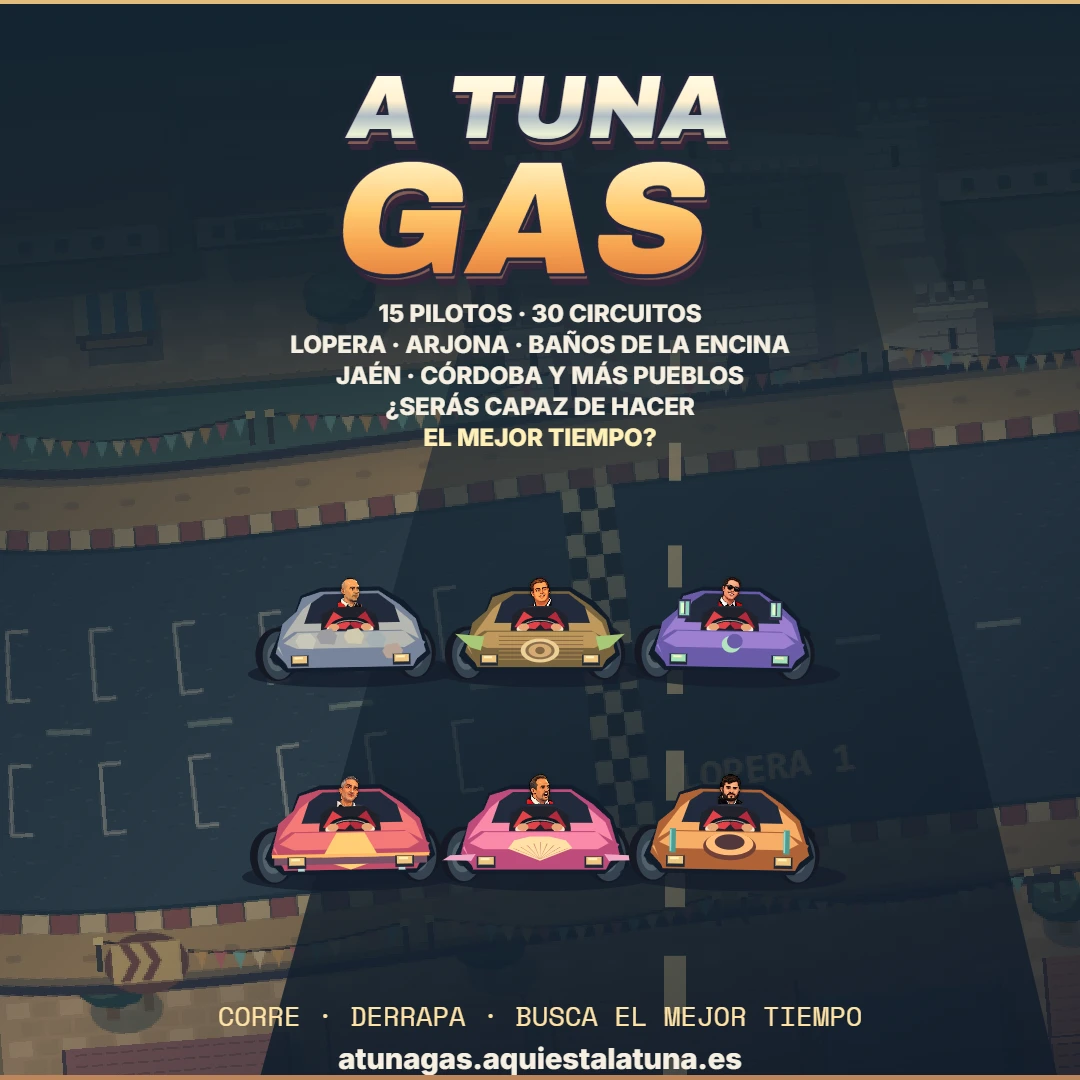
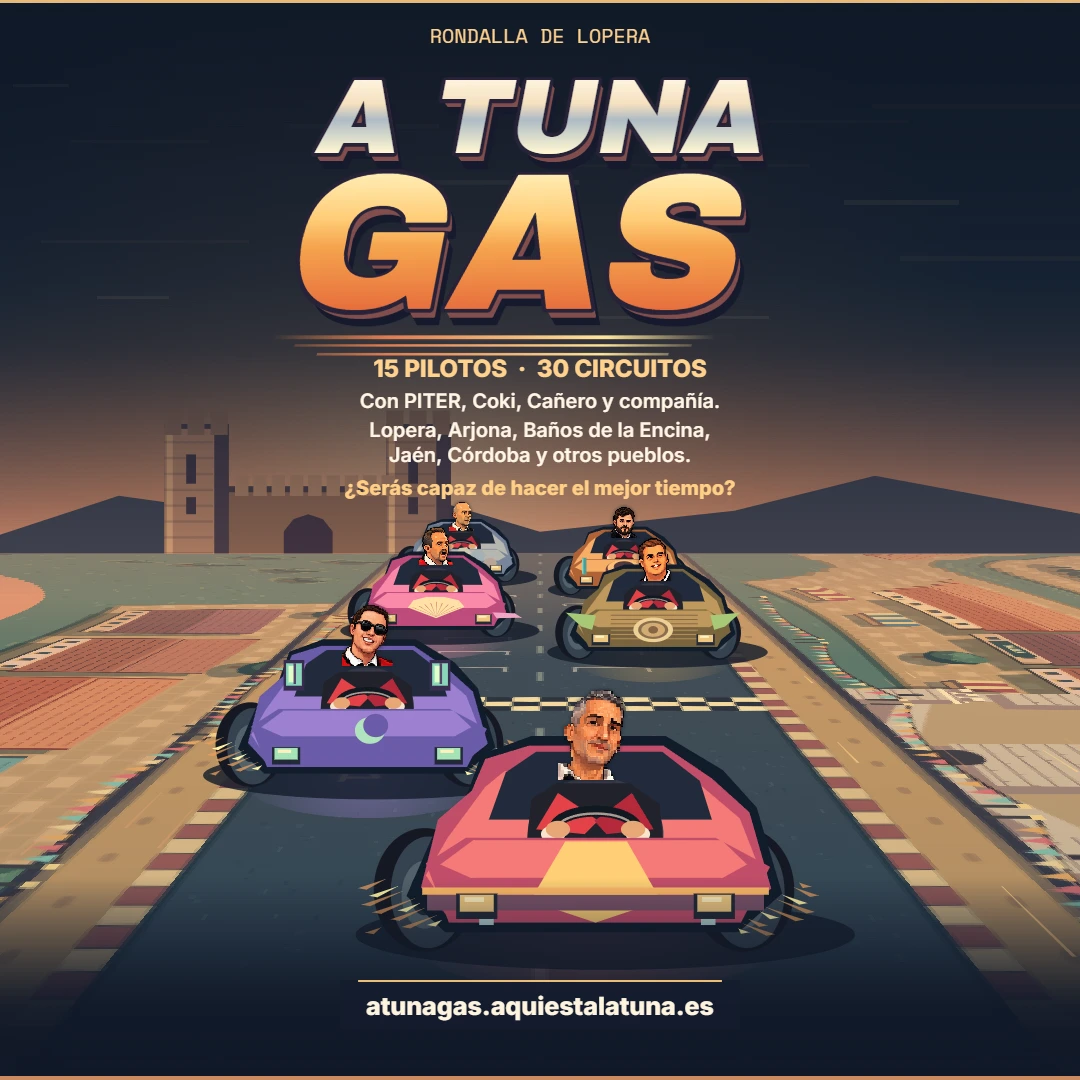
Rediseñar la carátula promocional de A Tuna Gas

diff --git a/promocion/editable/portada.js b/promocion/editable/portada.js
@@ -1,57 +1,279 @@
 (() => {
-  const game=globalThis.ATunaGas, canvas=document.getElementById('poster'), ctx=canvas.getContext('2d');
-  const {rect,poly,ellipse}=game.drawing;
-  const layouts={
-    horizontal:{size:[1200,630], title:[246,91,.78], copy:[287,259,18,23]},
-    cuadrada:{size:[1080,1080], title:[540,108,1.08], copy:[540,322,24,31]},
-    vertical:{size:[1080,1920], title:[540,206,1.28], copy:[540,442,27,36]}
+  const game = globalThis.ATunaGas;
+  const canvas = document.getElementById('poster');
+  const ctx = canvas.getContext('2d');
+  const {ellipse, poly, rect} = game.drawing;
+  const layouts = {
+    horizontal: {
+      size: [1200, 630], title: [254, 163, 1.03], eyebrow: 76,
+      copy: [254, 365, 17, 26], url: [254, 553, 20],
+      view: {center: 820, horizon: 213, rise: 329, width: 3.25, car: 1.02}
+    },
+    cuadrada: {
+      size: [1080, 1080], title: [540, 135, 1.26], eyebrow: 43,
+      copy: [540, 377, 20, 26], url: [540, 1015, 25],
+      view: {center: 540, horizon: 429, rise: 503, width: 4.3, car: 1.22}
+    },
+    vertical: {
+      size: [1080, 1920], title: [540, 252, 1.67], eyebrow: 126,
+      copy: [540, 580, 27, 36], url: [540, 1781, 32],
+      view: {center: 540, horizon: 715, rise: 948, width: 4.43, car: 1.40}
+    }
   };
-  const format=new URLSearchParams(location.search).get('formato')||'horizontal';
-  const layout=layouts[format]||layouts.horizontal;
-  [canvas.width,canvas.height]=layout.size;
-  const w=canvas.width,h=canvas.height,track=game.tracks[0];
-  const racers=[['guitarra','adoquin'],['canero','olivo'],['coki','farol'],['guitarra-gafas','cohete'],['pena','peineta'],['andres','perol']]
-    .map(([character,vehicle])=>({character:game.characters.find(item=>item.id===character),vehicle:game.vehicles.find(item=>item.id===vehicle)}));
-  function scene(){
-    rect(ctx,'#182530',0,0,w,h);
-    ctx.save();ctx.translate(w*.68,h*.58);ctx.rotate(-.08);
-    const zoom=format==='horizontal'?1.52:format==='vertical'?2.18:1.92;
-    ctx.scale(zoom,zoom);ctx.translate(-1118,-1250);ctx.imageSmoothingEnabled=false;
-    ctx.drawImage(game.art.scenery(track),0,0,track.width,track.height);ctx.restore();
-    const road=ctx.createLinearGradient(0,h*.18,0,h);road.addColorStop(0,'#22313c88');road.addColorStop(.5,'#172633aa');road.addColorStop(1,'#101b29ee');
-    poly(ctx,[[w*.47,h*.16],[w*.78,h*.16],[w*.98,h],[w*.24,h]],road);
-    for(let i=0;i<9;i++)rect(ctx,'#f1d494b0',w*.625-(8+i*2)/2,h*(.22+i*.095),8+i*2,30+i*4);
-    const dusk=ctx.createLinearGradient(0,0,w,h);dusk.addColorStop(0,'#152430e8');dusk.addColorStop(.5,'#15243066');dusk.addColorStop(1,'#121d2bd9');rect(ctx,dusk,0,0,w,h);
-    const shade=format==='horizontal'?ctx.createLinearGradient(0,0,w*.58,0):ctx.createLinearGradient(0,0,0,h*.44);shade.addColorStop(0,'#132430');shade.addColorStop(.58,'#172530d9');shade.addColorStop(1,'#18293700');rect(ctx,shade,0,0,w,h);
+  const format = new URLSearchParams(location.search).get('formato') || 'horizontal';
+  const layout = layouts[format] || layouts.horizontal;
+  [canvas.width, canvas.height] = layout.size;
+  const w = canvas.width;
+  const h = canvas.height;
+  const view = layout.view;
+  const track = game.tracks[0];
+  const racers = [
+    ['guitarra', 'adoquin', -480, 63],
+    ['andres', 'perol', -400, -62],
+    ['pena', 'peineta', -207, 61],
+    ['canero', 'olivo', -134, -60],
+    ['coki', 'farol', 109, 59],
+    ['guitarra-gafas', 'cohete', 248, -13]
+  ].map(([pilot, car, distance, lane]) => ({
+    character: game.characters.find(item => item.id === pilot),
+    vehicle: game.vehicles.find(item => item.id === car),
+    distance, lane
+  }));
+
+  function project(distance, lane = 0) {
+    const scale = 300 / (550 - distance);
+    return {
+      x: view.center - lane * view.width * scale,
+      y: view.horizon + view.rise * scale,
+      scale
+    };
   }
-  function title(x,y,scale){
-    ctx.save();ctx.translate(x,y);ctx.scale(scale,scale);ctx.transform(1,0,-.15,1,0,0);ctx.textAlign='center';ctx.textBaseline='alphabetic';
-    function line(word,height,font,colors){ctx.font=font+'px "Archivo Black"';const metal=ctx.createLinearGradient(0,height-font*.75,0,height+font*.08);colors.forEach(([p,c])=>metal.addColorStop(p,c));ctx.lineJoin='round';ctx.strokeStyle='#23263b';ctx.lineWidth=6;for(let d=11;d>=1;d-=2){ctx.fillStyle=d>5?'#35263a':'#845c55';ctx.fillText(word,d*.58,height+d);}ctx.strokeText(word,0,height);ctx.fillStyle=metal;ctx.fillText(word,0,height);}
-    line('A TUNA',28,83,[[0,'#fffde7'],[.41,'#fff0cf'],[.61,'#aebcc4'],[.85,'#edf2d8'],[1,'#aaaab0']]);line('GAS',153,148,[[0,'#fff5cb'],[.43,'#ffca6f'],[.7,'#f6a34f'],[1,'#e27b3d']]);
+
+  function skyline() {
+    const sky = ctx.createLinearGradient(0, 0, 0, view.horizon + 120);
+    sky.addColorStop(0, '#101827');
+    sky.addColorStop(.51, '#233644');
+    sky.addColorStop(1, '#de9071');
+    rect(ctx, sky, 0, 0, w, h);
+
+    const glow = ctx.createRadialGradient(view.center - 100, view.horizon + 60, 12,
+      view.center - 100, view.horizon + 60, Math.min(w * .58, 580));
+    glow.addColorStop(0, '#ffcd927e');
+    glow.addColorStop(.56, '#f49a593a');
+    glow.addColorStop(1, '#f49a5900');
+    rect(ctx, glow, 0, 0, w, h);
+    for (let i = 0; i < 15; i++) {
+      const x = (i * 277 + 13) % w;
+      const y = view.horizon * (.20 + (i * 9 % 59) / 100);
+      const length = 56 + (i * 93) % 220;
+      rect(ctx, i % 3 ? '#df997836' : '#ffd5a852', x, Math.round(y / 4) * 4, length, 3 + i % 2 * 2);
+    }
+    const ground = project(-660).y + 3;
+    poly(ctx, [[0, ground - 22], [w * .11, ground - 61], [w * .23, ground - 43],
+      [w * .36, ground - 70], [w * .5, ground - 25], [w * .68, ground - 46],
+      [w * .81, ground - 81], [w, ground - 43], [w, ground + 6], [0, ground + 6]], '#454653');
+
+    // The castle sits at the roadside in Lopera. The profile uses its square towers.
+    const s = format === 'horizontal' ? .87 : 1.22;
+    const x = view.center - 190 * s;
+    const y = ground - 1;
+    ctx.save();
+    ctx.translate(x, y);
+    ctx.scale(s, s);
+    rect(ctx, '#503f47', -90, -57, 180, 64);
+    rect(ctx, '#956953', -86, -52, 168, 58);
+    for (const side of [-1, 1]) {
+      const left = side * 91 - 27;
+      rect(ctx, '#51404a', left, -108, 53, 114);
+      rect(ctx, side === -1 ? '#bd8667' : '#a87860', left, -104, 41, 109);
+      rect(ctx, '#e5aa79', left + 2, -100, 5, 102);
+      for (let tooth = 0; tooth < 3; tooth++) {
+        rect(ctx, '#9d725a', left + tooth * 19, -119, 14, 20);
+      }
+      rect(ctx, '#473845', left + 18, -83, 8, 24);
+      rect(ctx, '#493a44', left + 18, -48, 8, 14);
+      for (let course = 0; course < 8; course++) {
+        rect(ctx, '#573f443c', left, -94 + course * 13, 40, 2);
+      }
+    }
+    for (let tooth = -4; tooth <= 4; tooth++) {
+      rect(ctx, '#ba8767', tooth * 15, -66, 11, 17);
+    }
+    poly(ctx, [[-20, 6], [-20, -20], [-12, -30], [0, -34], [12, -30], [20, -20], [20, 6]], '#473642');
     ctx.restore();
   }
-  function copy(x,y,size,lineHeight){
-    ctx.save();ctx.textAlign=format==='horizontal'?'left':'center';ctx.font='800 '+size+'px Inter';
-    const lines=format==='horizontal'?['15 PILOTOS · 30 CIRCUITOS','LOPERA · ARJONA · BAÑOS DE LA ENCINA','JAÉN · CÓRDOBA Y MÁS PUEBLOS','¿SERÁS CAPAZ DE HACER EL MEJOR TIEMPO?']:['15 PILOTOS · 30 CIRCUITOS','LOPERA · ARJONA · BAÑOS DE LA ENCINA','JAÉN · CÓRDOBA Y MÁS PUEBLOS','¿SERÁS CAPAZ DE HACER','EL MEJOR TIEMPO?'];
-    lines.forEach((lineText,i)=>{ctx.fillStyle=i===lines.length-1?'#fff0b7':'#f6efe1';ctx.fillText(lineText,x,y+i*lineHeight);});ctx.restore();
-  }
-  function front(racer,x,y,scale,tilt){ctx.save();ellipse(ctx,'#080e1b88',x,y+18*scale,155*scale,32*scale);game.sequences.paintFront(ctx,racer,x,y,scale,tilt);ctx.restore();}
-  function footer(x,y){ctx.save();ctx.textAlign='center';ctx.font=(format==='horizontal'?19:27)+'px "Space Mono"';ctx.fillStyle='#ffe2a4';ctx.fillText('CORRE · DERRAPA · BUSCA EL MEJOR TIEMPO',x,y);ctx.font='800 '+(format==='horizontal'?20:29)+'px Inter';ctx.fillStyle='#f6efe1';ctx.fillText('atunagas.aquiestalatuna.es',x,y+(format==='horizontal'?32:43));ctx.restore();}
-  async function paint(){
-    await Promise.all([game.art.ready,document.fonts.load('83px "Archivo Black"'),document.fonts.load('800 28px Inter'),document.fonts.load('24px "Space Mono"')]);scene();
-    if(format==='horizontal'){
-      front(racers[0],720,390,.45,-.02);front(racers[1],865,390,.45,0);front(racers[2],1010,390,.45,.02);
-      front(racers[3],720,505,.46,-.02);front(racers[4],865,505,.46,0);front(racers[5],1010,505,.46,.02);
-    } else if(format==='cuadrada') {
-      front(racers[0],350,625,.52,-.02);front(racers[1],540,625,.52,0);front(racers[2],730,625,.52,.02);
-      front(racers[3],350,825,.55,-.02);front(racers[4],540,825,.55,0);front(racers[5],730,825,.55,.02);
-    } else {
-      const c=format==='vertical'?[[350,1010,.68,-.03],[730,1010,.68,.03],[540,1290,.88,0]]:[[370,610,.56,-.03],[710,610,.56,.03],[540,760,.72,0]];
-      front(racers[0],...c[0]);front(racers[1],...c[1]);front(racers[2],...c[2]);
-      front(racers[3],c[0][0],c[0][1]+205,c[0][2]*.96,0);front(racers[4],c[1][0],c[1][1]+205,c[1][2]*.96,0);front(racers[5],c[2][0],c[2][1]+260,c[2][2],0);
-    }
-    title(...layout.title);copy(...layout.copy);footer(w/2,h-(format==='horizontal'?70:54));rect(ctx,'#e1bd7d',0,0,w,4);rect(ctx,'#bd855b',0,h-5,w,5);window.posterReady=true;
-  }
-  paint().catch(error=>{window.posterError=error.message;console.error(error);});
-})();
 
+  function course() {
+    const map = game.art.scenery(track);
+    const texture = document.createElement('canvas');
+    const scan = texture.getContext('2d');
+    const halfWidth = 620;
+    const far = -660;
+    const near = 405;
+    texture.width = halfWidth * 2;
+    texture.height = near - far + 1;
+    const mapScale = map.width / track.width;
+
+    // Align each row with its local cross-section of the game circuit before projecting it.
+    for (let distance = far; distance <= near; distance += 2) {
+      const row = distance - far;
+      const origin = track.at(distance);
+      const sine = Math.sin(origin.angle);
+      const cosine = Math.cos(origin.angle);
+      scan.save();
+      scan.beginPath();
+      scan.rect(0, row, texture.width, 2);
+      scan.clip();
+      scan.setTransform(sine / mapScale, cosine / mapScale, -cosine / mapScale, sine / mapScale,
+        halfWidth - origin.x * sine + origin.y * cosine, row - origin.x * cosine - origin.y * sine);
+      scan.drawImage(map, 0, 0);
+      scan.restore();
+    }
+
+    ctx.imageSmoothingEnabled = false;
+    const groundY = Math.floor(project(far).y);
+    for (let y = groundY; y < h; y++) {
+      const scale = (y - view.horizon) / view.rise;
+      const distance = 550 - 300 / scale;
+      const row = Math.round(distance) - far;
+      if (row < 0 || row >= texture.height) continue;
+      const projectedWidth = texture.width * view.width * scale;
+      ctx.drawImage(texture, 0, row, texture.width, 1, view.center - projectedWidth / 2,
+        y, projectedWidth, 1);
+    }
+
+    const haze = ctx.createLinearGradient(0, groundY, 0, h);
+    haze.addColorStop(0, '#eab08a6b');
+    haze.addColorStop(.20, '#d68b6410');
+    haze.addColorStop(.61, '#1c344c16');
+    haze.addColorStop(1, '#111a31a8');
+    rect(ctx, haze, 0, groundY, w, h - groundY);
+    const shade = format === 'horizontal'
+      ? ctx.createLinearGradient(0, 0, w * .63, 0)
+      : ctx.createLinearGradient(0, 0, 0, view.horizon + 170);
+    shade.addColorStop(0, '#101927f2');
+    shade.addColorStop(.58, '#111c2db6');
+    shade.addColorStop(1, '#101a2900');
+    rect(ctx, shade, 0, 0, w, h);
+  }
+
+  function speedStreaks() {
+    for (let i = 0; i < 32; i++) {
+      const side = i % 2 === 0 ? -1 : 1;
+      const distance = -84 + (i * 73 % 432);
+      const lane = side * (104 + (i * 47 % 123));
+      const a = project(distance, lane);
+      const b = project(distance + 16 + i % 6 * 7, lane);
+      const tint = i % 4 === 0 ? '#ffcc83b5' : '#e8a06d60';
+      poly(ctx, [[a.x, a.y], [b.x, b.y], [b.x + 4 * b.scale, b.y], [a.x + 1, a.y]], tint);
+    }
+  }
+
+  function drawRacer(racer) {
+    const position = project(racer.distance, racer.lane);
+    const scale = position.scale * view.car;
+    const {x, y} = position;
+    const light = ctx.createRadialGradient(x, y - 4, 1, x, y - 4, 155 * scale);
+    light.addColorStop(0, racer.vehicle.light + '80');
+    light.addColorStop(1, racer.vehicle.light + '00');
+    ellipse(ctx, light, x, y + 7, 155 * scale, 48 * scale);
+    const portraitScale = racer.distance < 0 ? 1.48 : 1.35;
+    game.sequences.paintFront(ctx, racer, x, y - 86 * scale, scale, 0, portraitScale);
+    if (racer.distance < 0) return;
+    for (let i = 0; i < 18; i++) {
+      const direction = i % 2 === 0 ? 1 : -1;
+      const dx = direction * (118 + (i * 23 % 60)) * scale;
+      const dy = (i * 17 % 44) * scale;
+      const length = (9 + (i * 19 % 27)) * scale;
+      poly(ctx, [[x + dx, y - dy], [x + dx + direction * length, y - dy + length * .33],
+        [x + dx + direction * (length - 7 * scale), y - dy + length * .33 + 1.5]], i % 3 ? '#ec9f5cc0' : '#fff1a1');
+    }
+  }
+
+  function title(x, y, scale) {
+    ctx.save();
+    ctx.translate(x, y);
+    ctx.scale(scale, scale);
+    ctx.transform(1, 0, -.19, 1, 0, 0);
+    ctx.textAlign = 'center';
+    const lines = [
+      ['A TUNA', 14, 83, ['#fff9e5', '#f5dfbe', '#aebbc4', '#fff7d3']],
+      ['GAS', 138, 154, ['#fff3c0', '#ffcd78', '#f5a34d', '#e76f3d']]
+    ];
+    for (const [word, baseline, size, colors] of lines) {
+      ctx.font = size + 'px "Archivo Black"';
+      const metal = ctx.createLinearGradient(0, baseline - size * .75, 0, baseline);
+      colors.forEach((color, index) => metal.addColorStop([0, .38, .58, 1][index], color));
+      ctx.lineJoin = 'round';
+      for (let depth = 13; depth >= 1; depth--) {
+        ctx.fillStyle = depth > 7 ? '#161a2d' : '#824e4d';
+        ctx.fillText(word, depth * .72, baseline + depth);
+      }
+      ctx.lineWidth = 6;
+      ctx.strokeStyle = '#282338';
+      ctx.strokeText(word, 0, baseline);
+      ctx.fillStyle = metal;
+      ctx.fillText(word, 0, baseline);
+    }
+    for (let i = 0; i < 3; i++) {
+      const shine = ctx.createLinearGradient(-183, 0, 171, 0);
+      shine.addColorStop(0, '#f58e4d00');
+      shine.addColorStop(.26, '#df7c50');
+      shine.addColorStop(.75, '#ffe59b');
+      shine.addColorStop(1, '#ffe59b00');
+      rect(ctx, shine, -182 + i * 19, 159 + i * 7, 351 - i * 36, i === 0 ? 3 : 2);
+    }
+    ctx.restore();
+  }
+
+  function typography() {
+    const [x, y, size, leading] = layout.copy;
+    ctx.textAlign = 'center';
+    ctx.fillStyle = '#ffd18d';
+    ctx.font = size + 'px "Space Mono"';
+    ctx.fillText('RONDALLA DE LOPERA', x, layout.eyebrow);
+    title(...layout.title);
+
+    ctx.font = '800 ' + Math.round(size * 1.2) + 'px Inter';
+    ctx.fillText('15 PILOTOS  ·  30 CIRCUITOS', x, y);
+    ctx.fillStyle = '#fff5e5';
+    ctx.font = '600 ' + size + 'px Inter';
+    ctx.fillText('Con PITER, Coki, Cañero y compañía.', x, y + leading * 1.2);
+    ctx.fillText('Lopera, Arjona, Baños de la Encina,', x, y + leading * 2.3);
+    ctx.fillText('Jaén, Córdoba y otros pueblos.', x, y + leading * 3.25);
+    ctx.fillStyle = '#ffcf86';
+    ctx.font = '800 ' + size + 'px Inter';
+    ctx.fillText('¿Serás capaz de hacer el mejor tiempo?', x, y + leading * 4.55);
+
+    const [urlX, urlY, urlSize] = layout.url;
+    if (format !== 'horizontal') {
+      const fade = ctx.createLinearGradient(0, urlY - 138, 0, h);
+      fade.addColorStop(0, '#10182700');
+      fade.addColorStop(.64, '#101827ed');
+      fade.addColorStop(1, '#101827');
+      rect(ctx, fade, 0, urlY - 138, w, h - urlY + 138);
+    }
+    ctx.font = '800 ' + urlSize + 'px Inter';
+    const url = 'atunagas.aquiestalatuna.es';
+    const band = ctx.measureText(url).width + 52;
+    rect(ctx, '#141c2de8', urlX - band / 2, urlY - urlSize - 10, band, urlSize + 24);
+    rect(ctx, '#eabe79', urlX - band / 2 + 18, urlY - urlSize - 10, band - 36, 2);
+    ctx.fillStyle = '#fff4df';
+    ctx.fillText(url, urlX, urlY);
+  }
+
+  async function paint() {
+    await Promise.all([game.art.ready, game.sequences.ready, document.fonts.load('83px "Archivo Black"'),
+      document.fonts.load('27px "Space Mono"'), document.fonts.load('600 28px Inter'),
+      document.fonts.load('800 28px Inter')]);
+    skyline();
+    course();
+    speedStreaks();
+    racers.forEach(drawRacer);
+    typography();
+    rect(ctx, '#e6ba79', 0, 0, w, 3);
+    rect(ctx, '#ce8b5f', 0, h - 4, w, 4);
+    window.posterReady = true;
+  }
+  paint().catch(error => { window.posterError = error.message; console.error(error); });
+})();

diff --git a/animaciones/escenas.js b/animaciones/escenas.js
@@ -10,7 +10,7 @@
   })));
   const roleOnPodium = pilot => ['Baile','Acompañante'].includes(pilot.role) ? 'Pandereta de podio' : pilot.role;
 
-  function introCar(ctx, entrant, t, side) {
+  function introCar(ctx, entrant, t, side, portraitScale=1) {
     const {vehicle, character} = entrant;
     const f = side ? 23 : 0;
     const bob = Math.round(Math.sin(t*19)*1.3);
@@ -42,7 +42,8 @@
       ctx.rotate(tilt);
       ctx.shadowColor='#0c151bb0';
       ctx.shadowBlur=4;
-      ctx.drawImage(face,-35,-40,70,77);
+      ctx.imageSmoothingEnabled=false;
+      ctx.drawImage(face,-35*portraitScale,37-77*portraitScale,70*portraitScale,77*portraitScale);
       ctx.restore();
     }
     ctx.strokeStyle='#111923';
@@ -103,13 +104,13 @@
     ctx.restore();
   }
 
-  function paintFront(ctx,entrant,x,y,scale,tilt=0) {
+  function paintFront(ctx,entrant,x,y,scale,tilt=0,portraitScale=1) {
     ctx.save();
     ctx.translate(x,y);
     ctx.rotate(tilt);
     ctx.scale(scale,scale);
     ctx.translate(-448,-177);
-    introCar(ctx,entrant,0,0);
+    introCar(ctx,entrant,0,0,portraitScale);
     ctx.restore();
   }
 

diff --git a/promocion/editable/portada.html b/promocion/editable/portada.html
@@ -30,6 +30,5 @@
   <script defer src="animaciones/escenas.js"></script>
   <script defer src="promocion/editable/portada.js"></script>
 </head>
-<body><canvas id="poster" role="img" aria-label="A Tuna Gas, portada promocional con PITER, Coki, Cañero, Pacheco, Peña y Andrés corriendo en Lopera"></canvas></body>
+<body><canvas id="poster" role="img" aria-label="A Tuna Gas. Seis pilotos de frente en la recta de Lopera. 15 pilotos y 30 circuitos en localidades como Lopera, Arjona, Baños de la Encina, Jaén y Córdoba. ¿Serás capaz de hacer el mejor tiempo? atunagas.aquiestalatuna.es"></canvas></body>
 </html>
-
